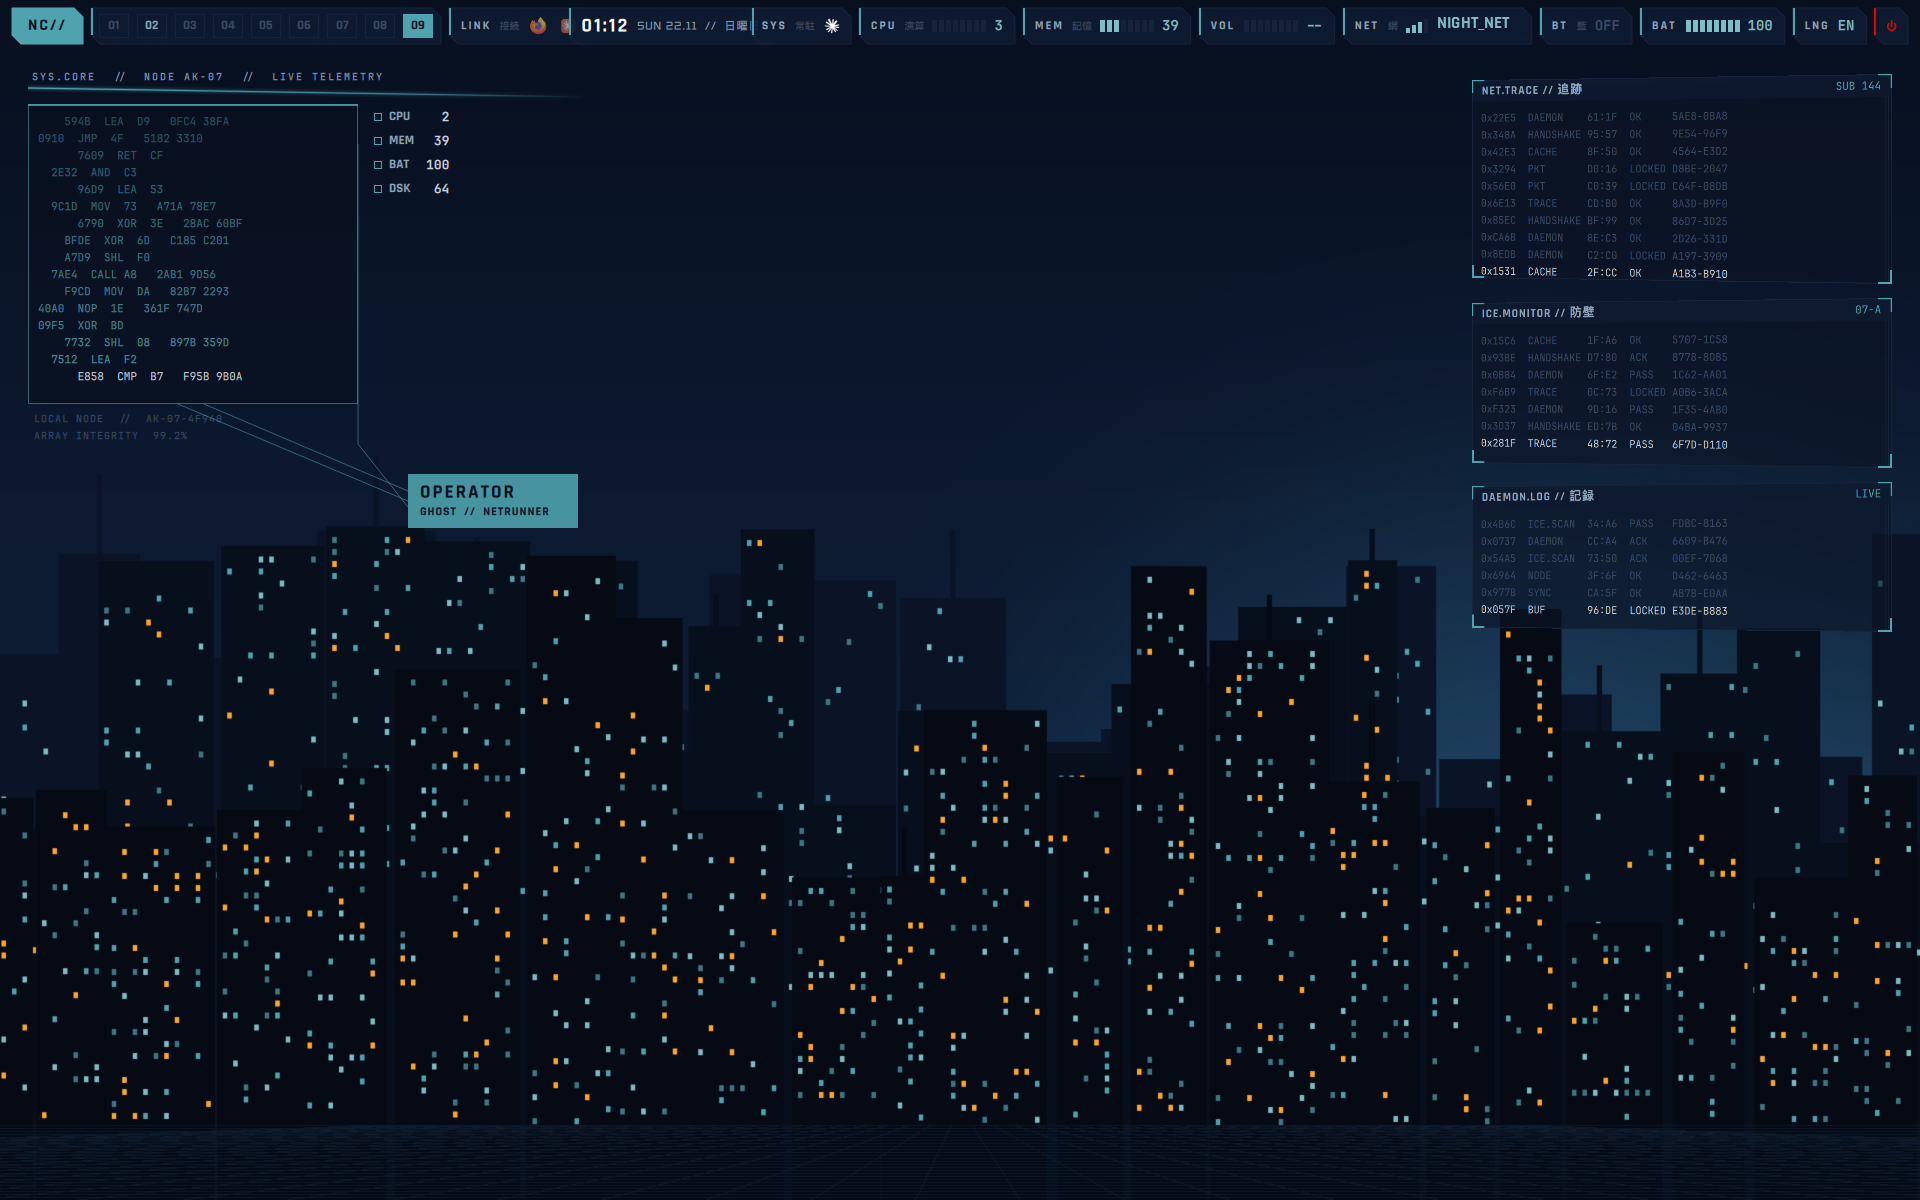
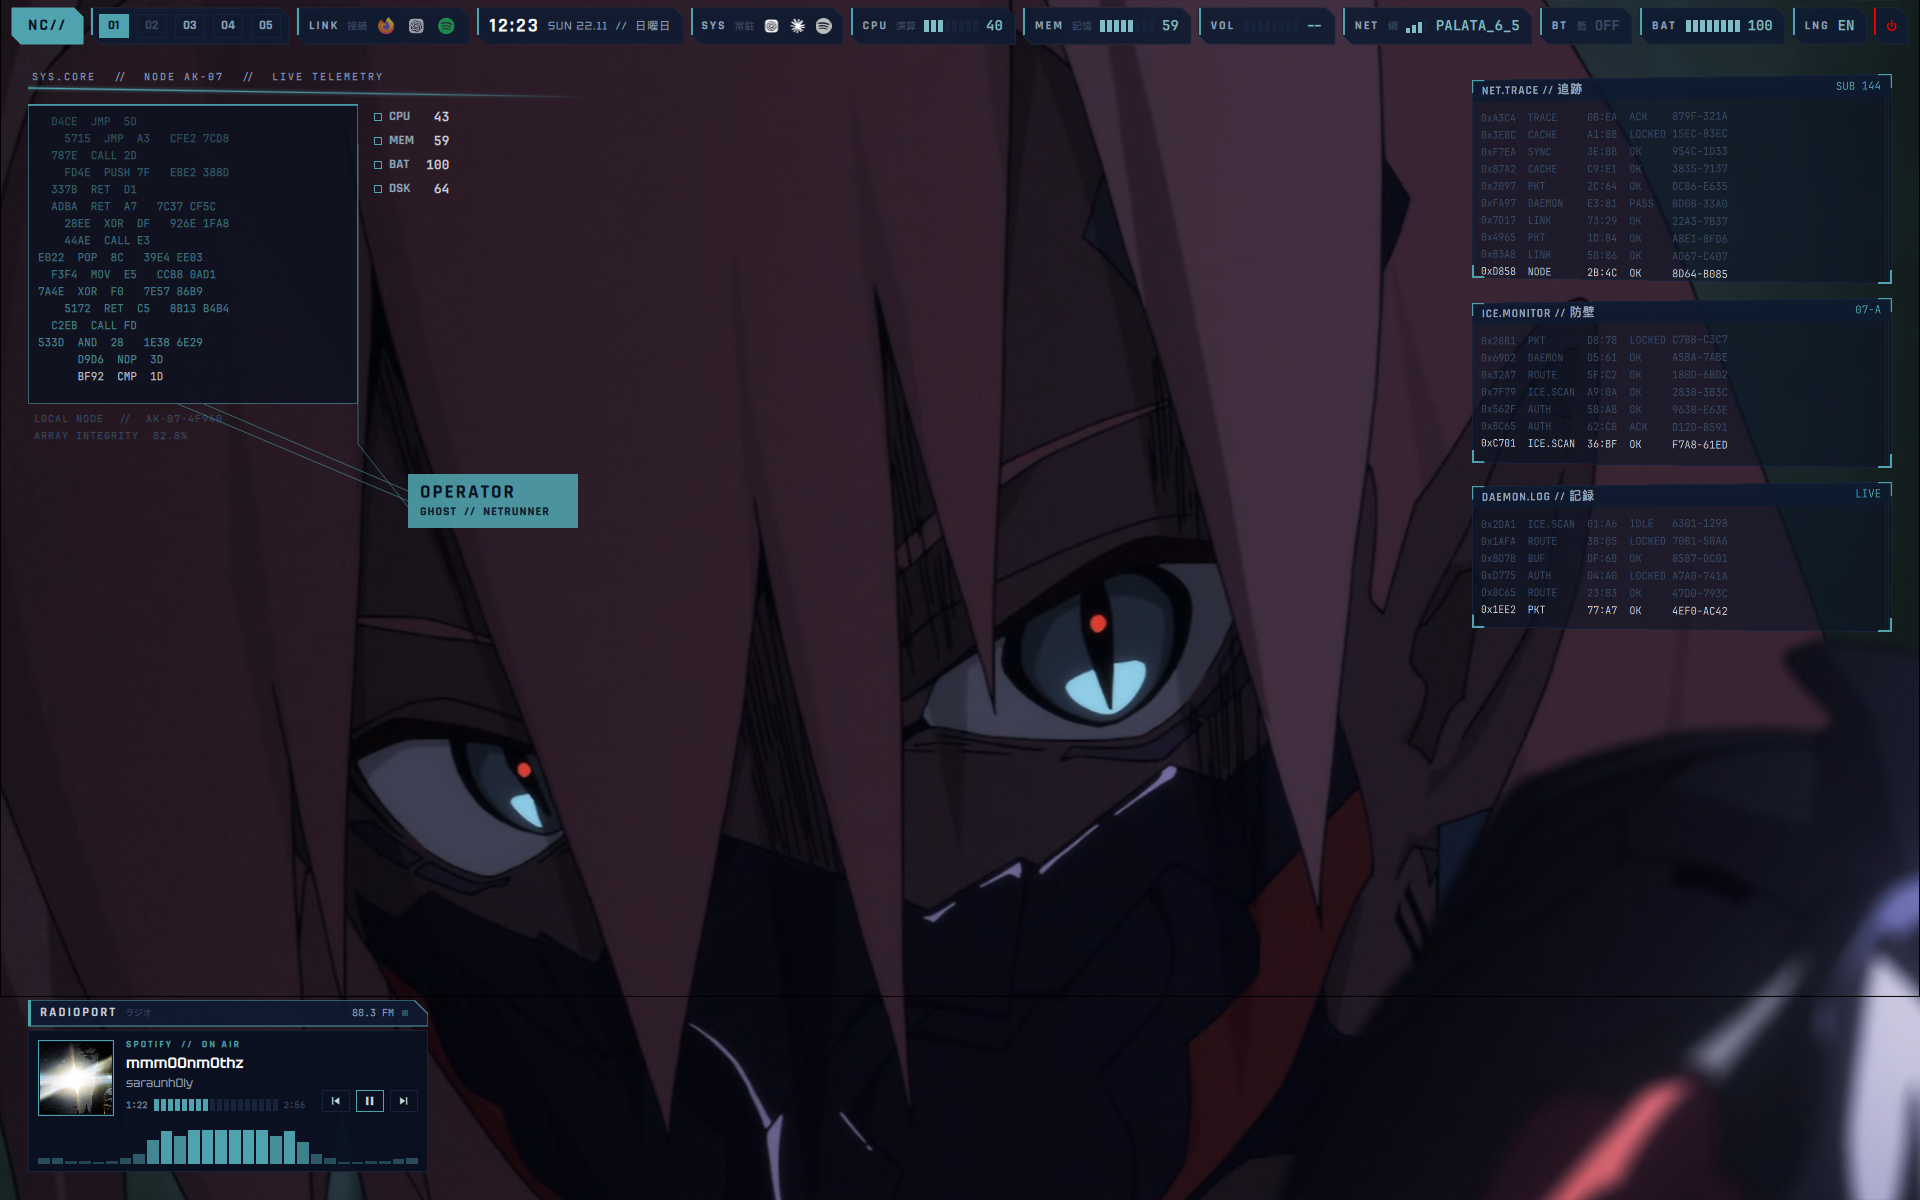
docs: update desktop screenshots and add RADIOPORT preview

diff --git a/README.ru.md b/README.ru.md
@@ -12,6 +12,8 @@
 | --- | --- |
 | ![launcher](docs/img/launcher.png) | ![terminal](docs/img/terminal.png) |
 
+![RADIOPORT](docs/img/radioport.png)
+
 ## Что внутри
 
 - **Верхняя панель**: рабочие столы, список окон, часы с иероглифом дня недели, трей, показания CPU / MEM / VOL / NET / BT / BAT. Клик по показанию открывает его панель.

diff --git a/README.md b/README.md
@@ -12,6 +12,8 @@ a live telemetry desktop. Everything is one-command installable and reversible.
 | --- | --- |
 | ![launcher](docs/img/launcher.png) | ![terminal](docs/img/terminal.png) |
 
+![RADIOPORT](docs/img/radioport.png)
+
 ## What you get
 
 - **Top bar** (Quickshell): workspaces, window list, clock with kanji weekday, tray, CPU / MEM / VOL / NET / BT / BAT readouts. Click a readout to open its panel.
